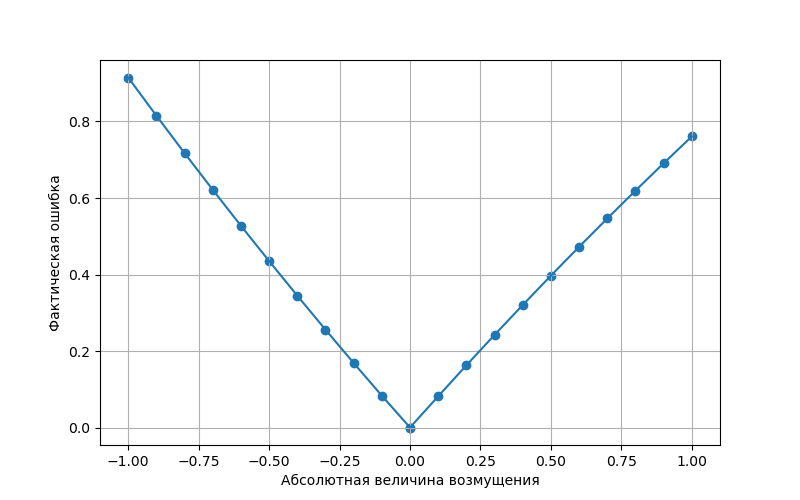
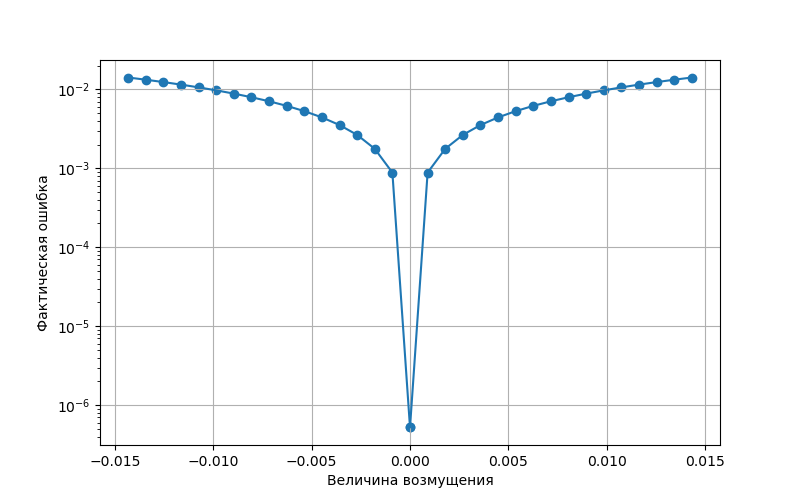
changed plot

diff --git a/lab6/main.cpp b/lab6/main.cpp
@@ -259,23 +259,23 @@ void TEST3(){
     double err = 0;
 
     int n = 16;
-    double h = 1.0/n;
+    double h = powf(1.7,-8)/n;
 
     double x_0 = 1;
 
     for(int i = n; i > 0; i--){
-        result = adams(equation, Point{ x_0,goal_fun(x_0) - h *i }, x_0, 5, 8);
+        result = adams(equation, Point{ x_0,goal_fun(x_0) - h *i }, x_0, 5, 512);
         err = get_accurancy(result, goal_fun);
         out <<  - h * i << " " << err << endl;
     }
     
 
-    result = adams(equation, Point{ x_0,goal_fun(x_0) }, x_0, 5, 8);
+    result = adams(equation, Point{ x_0,goal_fun(x_0) }, x_0, 5, 512);
     err = get_accurancy(result, goal_fun);
     out << 0 << " " << err << endl;
 
     for(int i = 0; i <= n; i++){
-        result = adams(equation, Point{ x_0,goal_fun(x_0) + h *i }, x_0, 5, 8);
+        result = adams(equation, Point{ x_0,goal_fun(x_0) + h *i }, x_0, 5, 512);
         err = get_accurancy(result, goal_fun);
         out <<  h * i << " " << err << endl;
     }
@@ -300,7 +300,7 @@ void TEST4(){
 
 int main() {
 
-    //TEST4();
+    TEST3();
 
 
     return 0;
